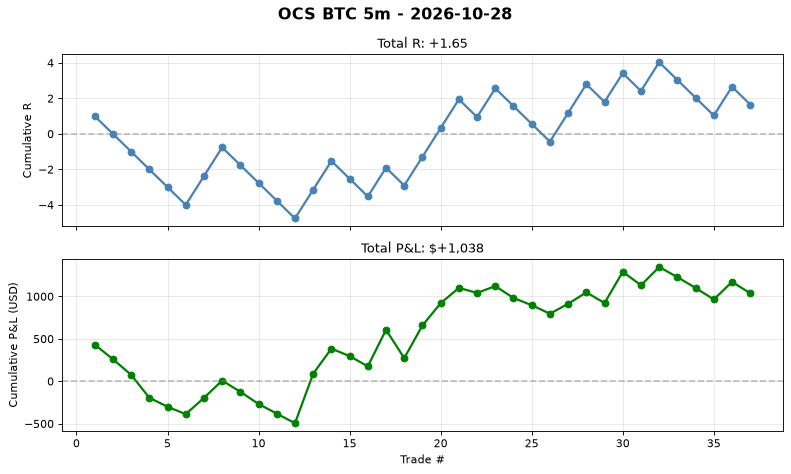
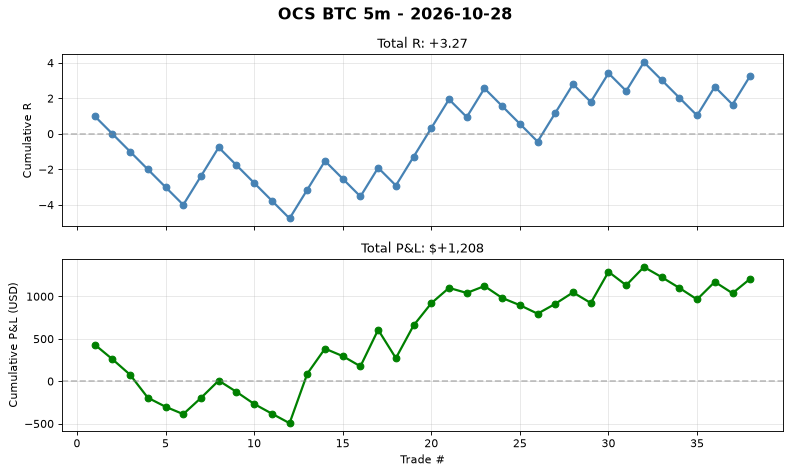
auto(ocs-btc): signal log 2026-10-28T05:39 trades=38

diff --git a/automation/reports/ocs_btc_5m/daily/2026-10-28.md b/automation/reports/ocs_btc_5m/daily/2026-10-28.md
@@ -1,16 +1,16 @@
 # OCS BTC 5m - 2026-10-28
 
 ## Summary
-- **Trades**: 2 (1W / 1L)
-- **Win Rate**: 50.0%
-- **Total R**: +0.62R
-- **Total P&L**: $+73
-- **Avg R**: +0.31R
-- **Profit Factor**: 1.08
+- **Trades**: 3 (2W / 1L)
+- **Win Rate**: 66.7%
+- **Total R**: +2.24R
+- **Total P&L**: $+244
+- **Avg R**: +0.75R
+- **Profit Factor**: 1.15
 
 ## Exit Breakdown
 - T1 (+1.0R): 1
-- T2 (+1.618R): 14
+- T2 (+1.618R): 15
 - T3 (+2.618R): 0
 - T4 (+3.618R): 0
 - T5 (+5.0R): 0
@@ -27,11 +27,11 @@
 - Held for 16 bars
 
 ## Cumulative Stats (Lifetime)
-- Total trades: 37
-- WR: 40.5%
-- Avg R: 0.045
-- Total R: +1.65R
-- Profit Factor: 1.08
+- Total trades: 38
+- WR: 42.1%
+- Avg R: 0.086
+- Total R: +3.27R
+- Profit Factor: 1.15
 
 ## Chart
 See `daily/2026-10-28.png` for cumulative P&L curve.
